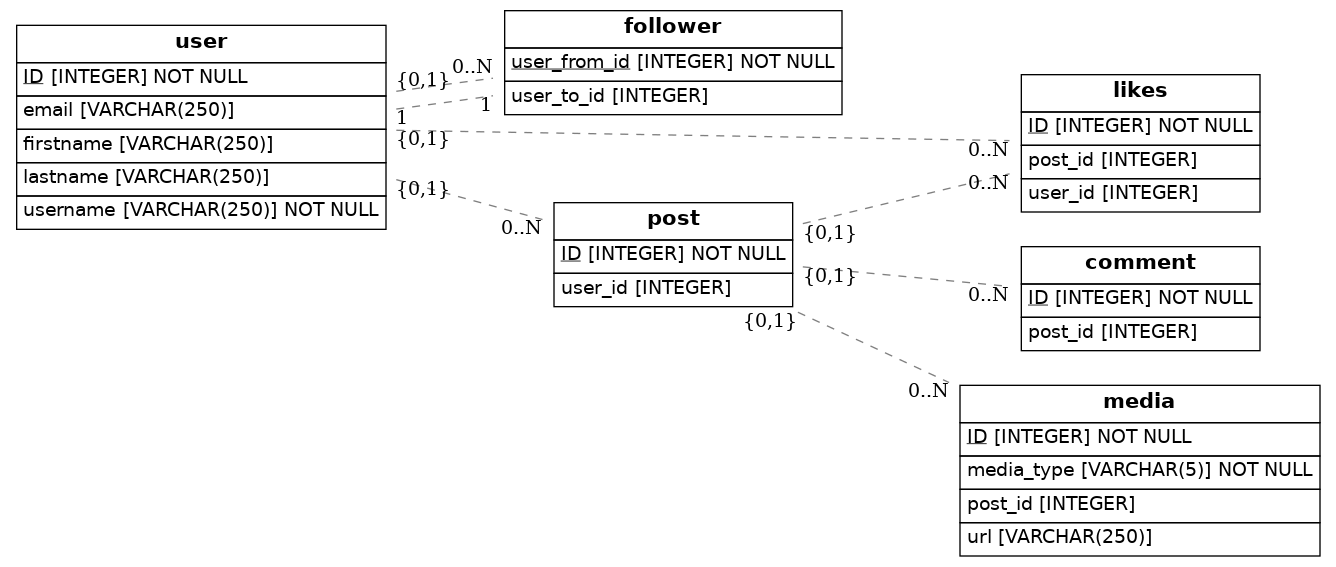
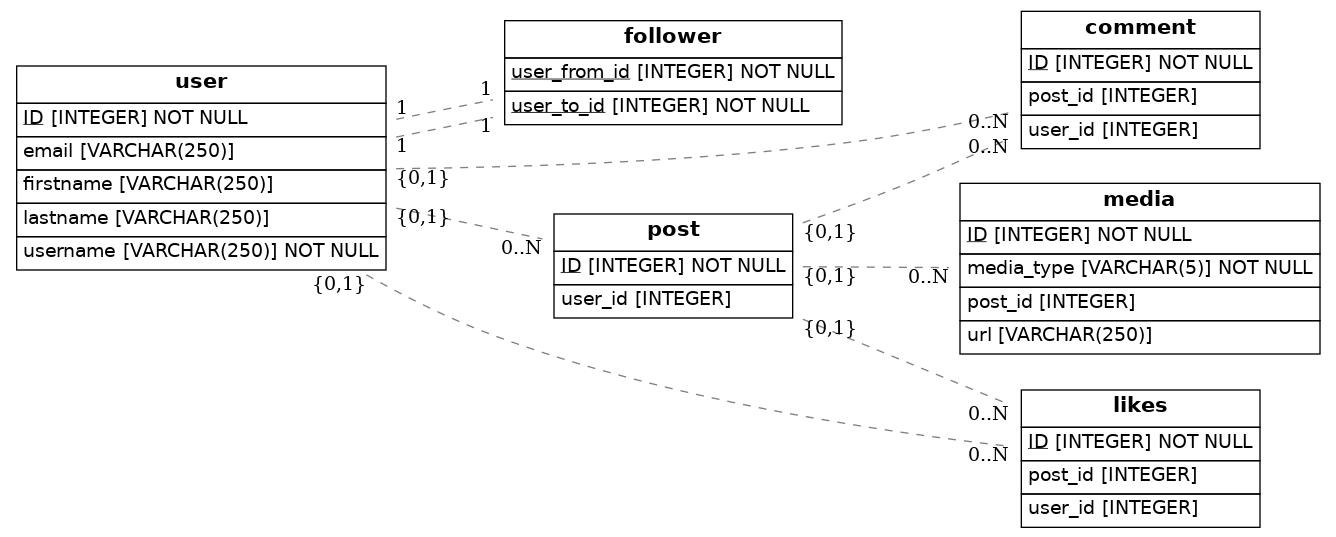
Segundo commit

Changed region(s): [[0.3683, 0.0894, 1.0, 0.9832], [0.0, 0.0, 0.6751, 0.5363], [0.7672, 0.0, 0.9513, 0.0596]]

diff --git a/src/models.py b/src/models.py
@@ -7,11 +7,6 @@ from eralchemy2 import render_er
 
 Base = declarative_base()
 
-class Follower(Base):
-    __tablename__ = 'follower'
-    user_from_id = Column(Integer, ForeignKey('user.ID'), primary_key=True)
-    user_to_id = Column(Integer, ForeignKey('user.ID'))
-   
 class User(Base):
     __tablename__ = 'user'
     ID = Column(Integer, primary_key=True)
@@ -19,17 +14,40 @@ class User(Base):
     firstname = Column(String(250))
     lastname = Column(String(250))
     email = Column(String(250))
+    
+    followed_by = relationship('Follower', foreign_keys='Follower.user_to_id', back_populates='followed')
+    following = relationship('Follower', foreign_keys='Follower.user_from_id', back_populates='follower')
+    likes = relationship("Likes", back_populates="user")
+    posts = relationship("Posts", back_populates="posted_by")
+    comments = relationship("Comment", back_populates="user")
 
- 
+class Follower(Base):
+    __tablename__ = 'follower'
+    user_from_id = Column(Integer, ForeignKey('user.ID'), primary_key=True)
+    user_to_id = Column(Integer, ForeignKey('user.ID'), primary_key=True)
+    
+    follower = relationship('User', foreign_keys=[user_from_id], back_populates='following')
+    followed = relationship('User', foreign_keys=[user_to_id], back_populates='followed_by')
+
+
 class Post(Base):
     __tablename__ = 'post'
     ID = Column(Integer, primary_key= True)
     user_id = Column(Integer, ForeignKey('user.ID'))
 
+    posted_by = relationship("User", back_populates="posts") 
+    comments= relationship("Comment", back_populates="post")
+    media = relationship("Media", back_populates="post")
+    likes = relationship("Likes", back_populates="post")
+
 class Comment(Base):
     __tablename__ = 'comment'
     ID = Column(Integer, primary_key= True)
+    user_id = Column(Integer, ForeignKey('user.ID'))
     post_id = Column(Integer, ForeignKey('post.ID'))
+
+    user = relationship("User", back_populates="comments")
+    post= relationship("Post", back_populates="comments")
 
 class Media(Base):
     __tablename__ = 'media'
@@ -38,11 +56,18 @@ class Media(Base):
     media_type = Column(Enum('image', 'video'), nullable=False)
     url = Column(String(250))    
 
+    post= relationship("Post", back_populates="media")
+
+
+
 class Likes(Base):
     __tablename__ = 'likes'
     ID = Column(Integer, primary_key= True)    
     post_id = Column(Integer, ForeignKey('post.ID'))
     user_id = Column(Integer, ForeignKey('user.ID'))   
+
+    user = relationship("User", back_populates="likes")
+    post = relationship("Post", back_populates="likes")
    
 
 try:
